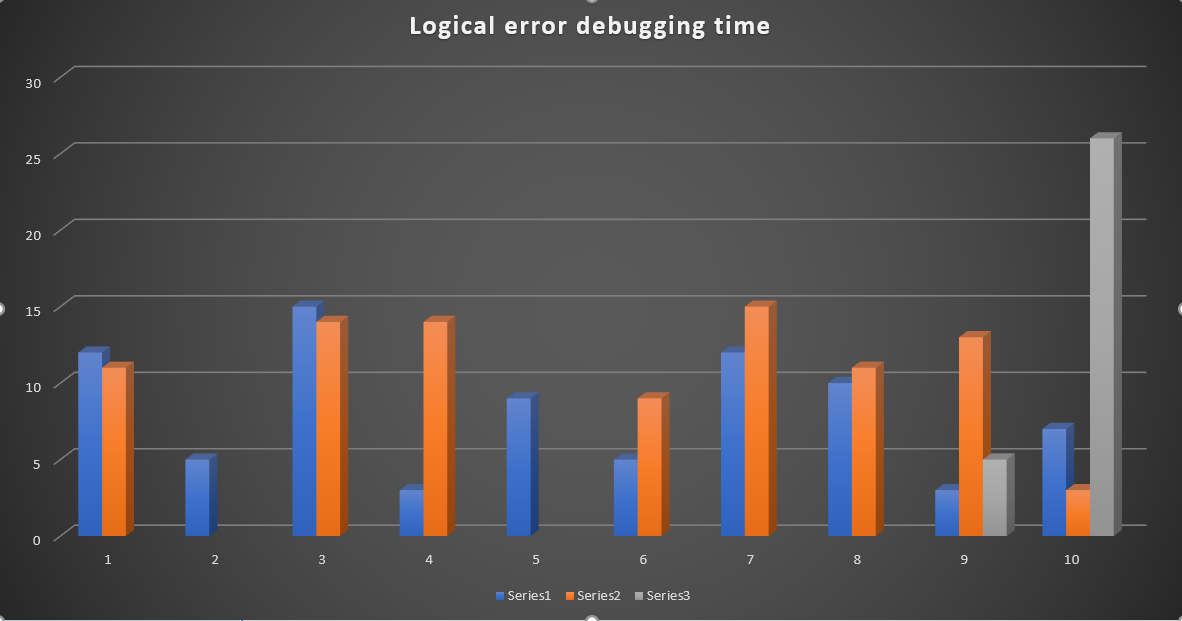
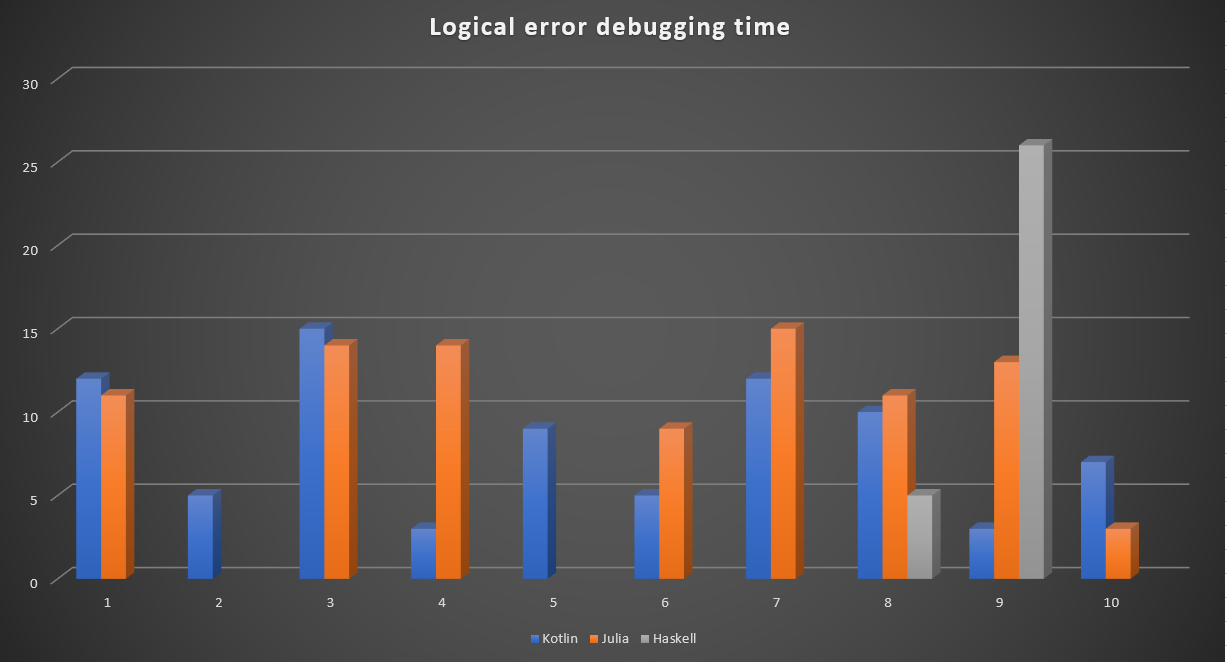
Updated Observations

diff --git a/RESULTS.md b/RESULTS.md
@@ -55,12 +55,17 @@
 </p>
 1. The above displayed graphs compares the time taken by the debugger to solve the compilation error in different languages. 
    Major takeaways from the graph are as following :-
+    - 3/10 debuggers were able to solve compilation bug for haskell. All the users complaint about ugly console output and not being able to locate the line of error.
+    - Surprisingly, even though a lot of debuggers were used to Kotlin, they took a comparatively higher time for solving the error. We hypothesize that quality of bug introduced would be the reason for this issue.
+    - Debuggers were able to solve the compilation error in Julia very quickly even though they complaint about it having not that great stacktrace. One reason could be the similarity between Julia and Python.
 
 <p align="center">
   <img src="https://github.com/urvishvasani/HW_2_3_Game_of_Life/blob/master/data/logical.PNG">
 </p>
 1. The above displayed graphs compares the time taken by the debugger to solve the logical error in different languages. 
    Major takeaways from the graph are as following :-
+    - 2/10 debuggers were able to solve logical bug introduced in haskell.
+  
 ## Conclusions
 
 ## Threats to validity
